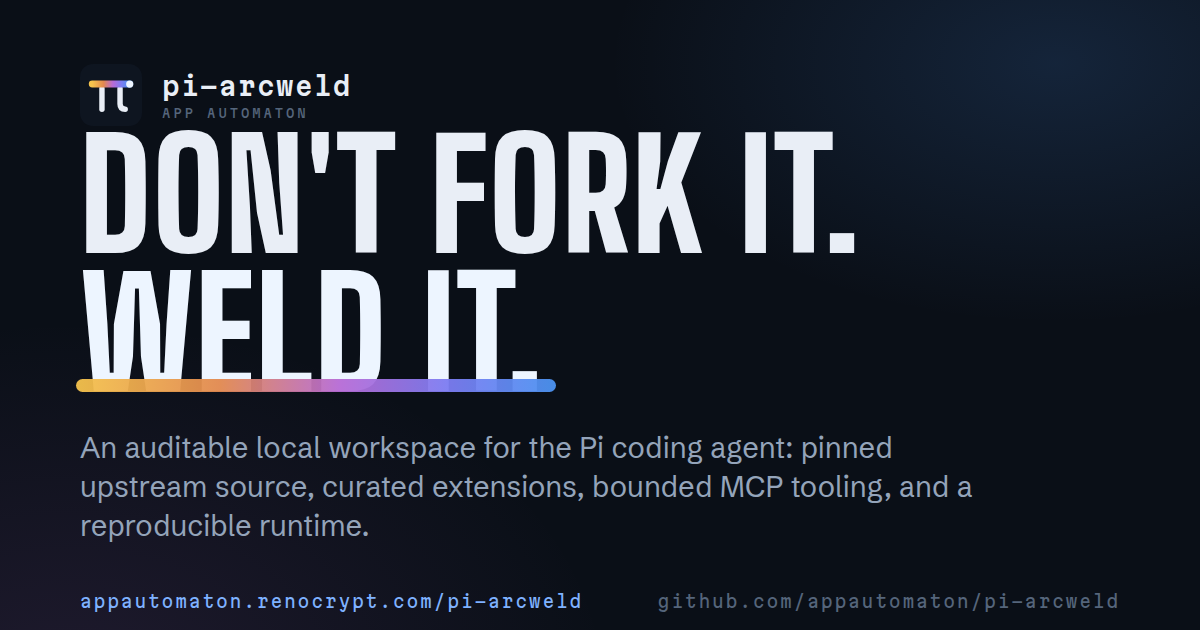
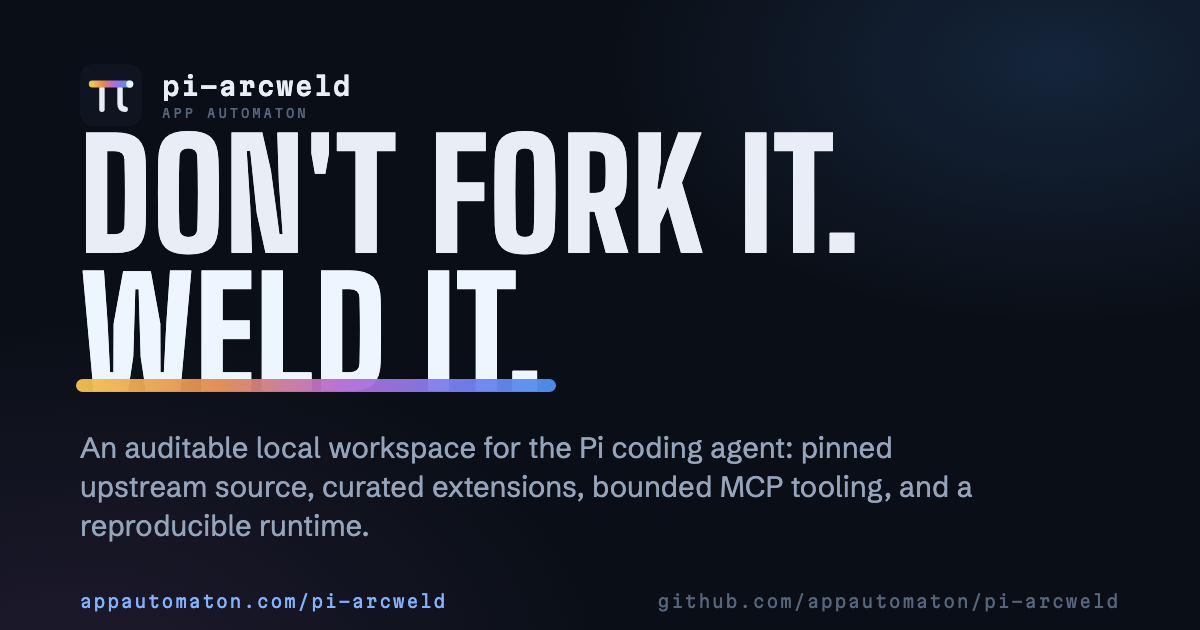
Update public website references to appautomaton.com

diff --git a/docs/index.html b/docs/index.html
@@ -14,8 +14,8 @@
   <meta property="og:locale" content="en_US">
   <meta property="og:title" content="pi-arcweld — Don't fork it. Weld it.">
   <meta property="og:description" content="A curated local layer welded to pinned upstream Pi along one auditable seam. Upstream stays upstream. The workspace stays yours.">
-  <meta property="og:url" content="https://appautomaton.renocrypt.com/pi-arcweld/">
-  <meta property="og:image" content="https://appautomaton.renocrypt.com/pi-arcweld/og-card.png">
+  <meta property="og:url" content="https://appautomaton.com/pi-arcweld/">
+  <meta property="og:image" content="https://appautomaton.com/pi-arcweld/og-card.png">
   <meta property="og:image:type" content="image/png">
   <meta property="og:image:width" content="1200">
   <meta property="og:image:height" content="630">
@@ -23,21 +23,21 @@
   <meta name="twitter:card" content="summary_large_image">
   <meta name="twitter:title" content="pi-arcweld — Don't fork it. Weld it.">
   <meta name="twitter:description" content="A curated local layer welded to pinned upstream Pi along one auditable seam. Upstream stays upstream. The workspace stays yours.">
-  <meta name="twitter:image" content="https://appautomaton.renocrypt.com/pi-arcweld/og-card.png">
+  <meta name="twitter:image" content="https://appautomaton.com/pi-arcweld/og-card.png">
   <meta name="twitter:image:alt" content="pi-arcweld — Don't fork it. Weld it. A Pi symbol whose crossbar is a titanium weld bead.">
   <title>pi-arcweld — Don't fork it. Weld it.</title>
-  <link rel="canonical" href="https://appautomaton.renocrypt.com/pi-arcweld/">
+  <link rel="canonical" href="https://appautomaton.com/pi-arcweld/">
   <link rel="icon" type="image/svg+xml" href="arcweld-mark.svg">
 
   <script type="application/ld+json">
     {
       "@context": "https://schema.org",
       "@type": "SoftwareSourceCode",
-      "@id": "https://appautomaton.renocrypt.com/pi-arcweld/#project",
+      "@id": "https://appautomaton.com/pi-arcweld/#project",
       "name": "pi-arcweld",
       "alternateName": ["Pi Arcweld", "pi arcweld"],
       "description": "An auditable local workspace for Pi with pinned upstream source, curated extensions, bounded MCP tooling, and a reproducible external runtime.",
-      "url": "https://appautomaton.renocrypt.com/pi-arcweld/",
+      "url": "https://appautomaton.com/pi-arcweld/",
       "dateModified": "2026-09-05",
       "codeRepository": "https://github.com/appautomaton/pi-arcweld",
       "license": "https://github.com/appautomaton/pi-arcweld/blob/main/LICENSE",
@@ -46,10 +46,10 @@
       "sameAs": [
         "https://github.com/appautomaton/pi-arcweld",
         "https://github.com/appautomaton",
-        "https://appautomaton.renocrypt.com/"
+        "https://appautomaton.com/"
       ],
       "isPartOf": { "@type": "SoftwareApplication", "name": "Pi", "url": "https://pi.dev" },
-      "author": { "@id": "https://appautomaton.renocrypt.com/#org" }
+      "author": { "@id": "https://appautomaton.com/#org" }
     }
   </script>
 
@@ -426,7 +426,7 @@
   <footer class="footer">
     <div class="shell footer-inner">
       <p class="footer-meta">pi-arcweld · welded locally · MIT</p>
-      <p class="footer-maintainer">Pi Arcweld is maintained by <a href="https://github.com/appautomaton">App Automaton</a> · <a href="https://appautomaton.renocrypt.com/">appautomaton.renocrypt.com</a></p>
+      <p class="footer-maintainer">Pi Arcweld is maintained by <a href="https://github.com/appautomaton">App Automaton</a> · <a href="https://appautomaton.com/">appautomaton.com</a></p>
       <nav class="footer-links" aria-label="Footer navigation">
         <a href="https://github.com/appautomaton/pi-arcweld">GitHub</a>
         <a href="https://pi.dev">Upstream Pi</a>

diff --git a/docs/og-card.html b/docs/og-card.html
@@ -128,7 +128,7 @@
     <p class="sub">An auditable local workspace for the Pi coding agent: pinned upstream source, curated extensions, bounded MCP tooling, and a reproducible runtime.</p>
 
     <footer>
-      <span class="url">appautomaton.renocrypt.com/pi-arcweld</span>
+      <span class="url">appautomaton.com/pi-arcweld</span>
       <span>github.com/appautomaton/pi-arcweld</span>
     </footer>
   </main>

diff --git a/README.md b/README.md
@@ -9,8 +9,8 @@
 An auditable local workspace for the [Pi](https://pi.dev) coding agent:<br>
 pinned upstream source, curated extensions, bounded MCP tooling, and a reproducible runtime.
 
-<a href="https://appautomaton.renocrypt.com/pi-arcweld/"><img alt="pi arcweld project site" src="https://img.shields.io/badge/site-pi--arcweld-1d5bd6"></a>
-<a href="https://appautomaton.renocrypt.com/"><img alt="appautomaton" src="https://img.shields.io/badge/by-appautomaton-e2894f"></a>
+<a href="https://appautomaton.com/pi-arcweld/"><img alt="pi arcweld project site" src="https://img.shields.io/badge/site-pi--arcweld-1d5bd6"></a>
+<a href="https://appautomaton.com/"><img alt="appautomaton" src="https://img.shields.io/badge/by-appautomaton-e2894f"></a>
 <a href="https://github.com/appautomaton"><img alt="App Automaton on GitHub" src="https://img.shields.io/badge/github-App_Automaton-0f1621?logo=github"></a>
 <a href="LICENSE"><img alt="pi-arcweld is MIT licensed" src="https://img.shields.io/badge/license-MIT-b76bd6"></a>
 <a href="https://github.com/earendil-works/pi"><img alt="tracks upstream Pi at earendil-works/pi" src="https://img.shields.io/badge/pi-upstream-7b7df2"></a>
@@ -110,10 +110,10 @@ The repository intentionally has no root `package.json` or shared npm workspace.
 
 ## Links
 
-- **Project site:** [appautomaton.renocrypt.com/pi-arcweld](https://appautomaton.renocrypt.com/pi-arcweld/)
+- **Project site:** [appautomaton.com/pi-arcweld](https://appautomaton.com/pi-arcweld/)
 - **Repository:** [github.com/appautomaton/pi-arcweld](https://github.com/appautomaton/pi-arcweld)
 - **Upstream Pi:** [pi.dev](https://pi.dev) · [github.com/earendil-works/pi](https://github.com/earendil-works/pi)
-- **Maintainer:** [App Automaton](https://github.com/appautomaton) · [appautomaton.renocrypt.com](https://appautomaton.renocrypt.com/)
+- **Maintainer:** [App Automaton](https://github.com/appautomaton) · [appautomaton.com](https://appautomaton.com/)
 
 ---
 
